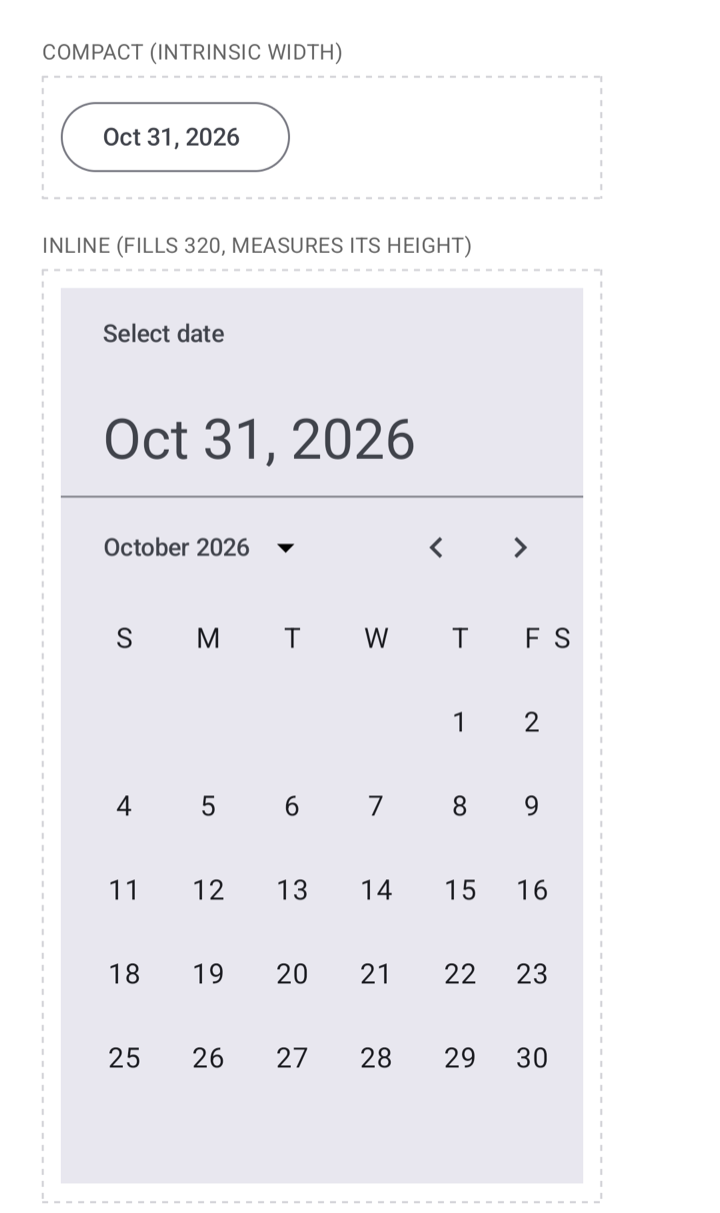
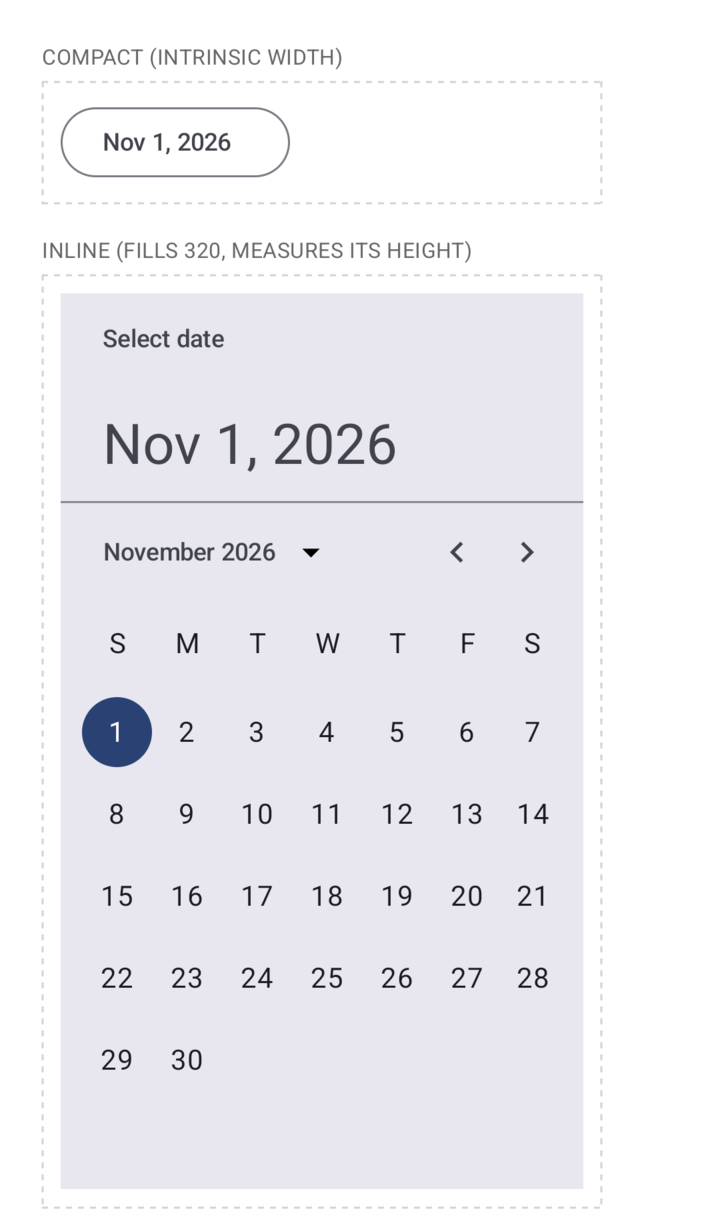
docs(readme): re-take the Android DatePicker and Menu screenshots
Both are the story the earlier pair came from (DatePicker/Variants,
Menu/Item Lists with the Edit menu open), on the same device in the same
light appearance, cropped to the story content at the same 720px width.

The calendar now lays out all seven weekday columns inside the 320dp box,
and the Edit dropdown is its items' width rather than the trigger's. The
two FOLLOWUPS lines these close are replaced by one line pointing at the
G8 report; the iOS Menu line stays open.

diff --git a/docs/tasks/FOLLOWUPS.md b/docs/tasks/FOLLOWUPS.md
@@ -84,9 +84,8 @@ Triaged 2026-10-27 in `Q4-followups-triage.md`. Open items are grouped into task
 - iOS < 26 fallback row (F4): **no CI label can run it today, and that is now written down rather than assumed.** Neither `macos-26` nor `xcode-27` ships a simulator runtime below iOS 26 (read 2026-10-31 from the published **arm64** `actions/runner-images` manifests, in `docs/ci-runner-images.md`). `macos-15` is the only series with iOS 18 (18.5/18.6) — and it also installs Xcode 26.0.1 → 26.3, so a dispatch row there with `xcode-select` to 26.3 plus `IOS_VERSION=18.6` **looks feasible** and is the cheapest next try (one manual run, then a workflow row; needs the label in `.github/actionlint.yaml`). Unproven: whether Xcode 26 boots an iOS 18.5 runtime, and whether the example builds on macOS 15 at all. Until someone runs that once by hand, an older-runtime check stays a manual run on a maintainer Mac, recorded in a report. The cheap related row is a different question: RN 0.86's prebuilt core hangs at launch on an iOS 27 runtime, and `macos-26` has iOS 26.2/26.4/26.5, so `smoke.yml`'s skipped 0.86 iOS row is testable on a label this repo already uses — that belongs to F5/smoke, not here.
 - `--check` after a narrowed mint compares only the rows its own run measured, so it cannot show that a merged file's older cells still gate; a `--check-all`, or a docs note to run one full-plan `--check` on the mint host, would close that (A6).
 - `lease.mjs acquire --exclusive` powers off every booted simulator on the machine, including another project's that `doctor` already flagged; on a shared or linked machine it should list what it will switch off first (A6).
-- Android inline `DatePicker` is clipped inside its 320-wide box: the Saturday column is cut off and the "F S" headers run together (`docs/images/components/date-picker-android.png`, PR #11). A user-visible sizing bug.
+- Android inline `DatePicker` clipped inside its 320-wide box, and Android `Menu`'s dropdown narrow enough to truncate "AirDrop" — **closed by G8** (`docs/tasks/G8-android-visual-fixes.report.md`). The calendar's grid wanted Material's 7 × 48 + 24 = 360 dp and a narrower box took the difference out of the columns on the right; the inline picker now asks for Material's own 40 dp day cell, which needs 304 dp. The dropdown was `ExposedDropdownMenu`'s default `matchAnchorWidth = true`, whose modifier sets `minWidth = maxWidth = anchorWidth`; the call passes `false`. Both are guarded on-device now — the menu's popup width by `Menu.harness.tsx`, the calendar's columns by `real-input:android`, because an `inline` picker is `fillWidth` and so reports its box's width whatever the grid fits. Below 304 dp the calendar is still clipped, deliberately: `docs/components/date-picker.md` says so.
 - iOS `Menu`, Item Lists story: the File menu omits the untitled destructive "Delete" group that Android shows (PR #11).
-- Android `Menu`: the dropdown is narrow enough to truncate "AirDrop" (PR #11).
 - `lease.mjs acquire --exclusive --boot` ignores `--boot`: the boot branch in `poolHandoff` is `if (!lease.exclusive)`, so a bench host boots its leased simulator by hand (A6b report).
 - `gate.mjs bench --help` records a FAIL row in the branch ledger; a help probe should not be a gate run (A6b report).
 - maintainer-mac-2's iOS simulators stopped launching apps on 2026-11-01 after 34 days of uptime (`simctl launch` hangs on every device and runtime; CoreSimulatorService restart and an erase did not help). A host restart is pending; until then no iOS device gate runs here.
